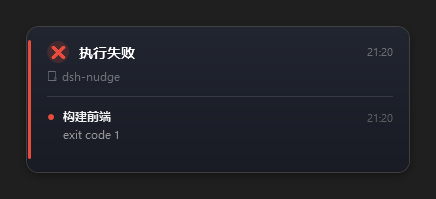
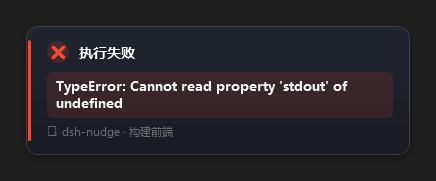
feat: 单条提醒只突出最要紧一行；失败显示精简后的错误摘要

diff --git a/lib/index.js b/lib/index.js
@@ -23,6 +23,52 @@ import { fileURLToPath } from "node:url";
 /** 插件名（cordis 实例标识）。 */
 export const name = "nudge";
 
+/**
+ * 把一段错误压成一行：去掉换行、堆栈尾巴和多余空白，超长截断。
+ * 卡片上只放得下一行重点，原始堆栈留在会话里查。
+ * @param {unknown} value 原始文本
+ * @param {number} [limit] 最多保留的字符数
+ * @returns {string} 压缩后的一行
+ */
+function condenseText(value, limit = 140) {
+	const text = String(value ?? "").replace(/\s+/gu, " ").trim();
+	if (text === "") return "";
+	const head = text.split(/\s+at\s+/u)[0].trim();
+	if (head === "") return "";
+	return head.length > limit ? `${head.slice(0, limit - 1)}…` : head;
+}
+
+/**
+ * 失败和待选择各给一层很淡的同色底，让"这条要处理"自己跳出来；完成不加。
+ * @param {string} kind 类型
+ * @returns {string} 颜色，空串表示不加底
+ */
+function tintOf(kind) {
+	if (kind === "failed") return "#24E74C3C";
+	if (kind === "needs_choice") return "#24F5A623";
+	return "";
+}
+
+/**
+ * 只剩一条提醒时，卡片只有一行主角：
+ * 失败给错误摘要，待选择给要做的事，完成给任务名（有异常细节时优先给细节）。
+ * @param {object} item 提醒条目
+ * @returns {{headline: string, tint: string, context: string}} 主角行、底色、说明行
+ */
+function focusOf(item) {
+	const kind = item.kind;
+	const detail = condenseText(item.detail);
+	const title = condenseText(item.title);
+	let headline = "";
+	if (kind === "failed") headline = detail === "" ? "回合异常结束" : detail;
+	else if (kind === "needs_choice") headline = detail === "" ? "等待你确认" : detail;
+	else headline = detail === "" || detail === "回合已完成" ? title : detail;
+	const meta = [];
+	if (typeof item.project === "string" && item.project !== "") meta.push(item.project);
+	if (title !== "" && title !== headline) meta.push(title);
+	return { headline, tint: tintOf(kind), context: meta.join(" · ") };
+}
+
 /** 默认配置；实际配置来自 cordis.patch.yml，缺失字段落回这里。 */
 export const DEFAULTS = {
 	/** 总开关 */
@@ -239,14 +285,27 @@ export class PopupRunner {
 			...new Set(ordered.map((item) => item.project).filter((value) => typeof value === 'string' && value !== ''))
 		];
 		const multiProject = projects.length > 1;
+		// 单条：只留一行主角 + 一行项目说明；多条：抬头 + 清单。
+		const single = ordered.length === 1 ? ordered[0] : null;
+		const focus = single === null
+			? { headline: "", tint: "", context: projects.length === 1 ? projects[0] : "" }
+			: focusOf(single);
 		const payload = {
 			kind: top,
 			label: KIND_META[top].label,
 			accent: KIND_META[top].accent,
 			glyph: KIND_META[top].glyph,
 			count: ordered.reduce((acc, item) => acc + Math.max(1, item.count), 0),
-			items: ordered.slice(0, limit).map((item) => ({ ...item, rowProject: multiProject ? item.project ?? '' : '' })),
-			context: projects.length === 1 ? projects[0] : '',
+			items: single === null
+				? ordered.slice(0, limit).map((item) => ({
+						...item,
+						detail: condenseText(item.detail),
+						rowProject: multiProject ? item.project ?? '' : ''
+					}))
+				: [],
+			headline: focus.headline,
+			headlineTint: focus.tint,
+			context: focus.context,
 			overflow,
 			// 卡片上的说明文字由这里给出：popup.ps1 保持纯 ASCII 脚本。
 			more: overflow > 0 ? `还有 ${overflow} 条未展开` : "",

diff --git a/VERIFY.md b/VERIFY.md
@@ -41,7 +41,7 @@ ALL PASS (23 checks)
 & $node .\scripts\selftest.mjs   # 已经包含这一步，产物在 screenshots\*.png
 ```
 
-期望：`completed.png` 436×199、`needs_choice.png` 436×237、`failed.png` 436×199（412 = 卡片 384 宽 + 两侧 14px 阴影留白，再各加 12px 底色留白），均 >4KB。
+期望：`completed.png` 436×150、`needs_choice.png` 436×237、`failed.png` 436×181（412 = 卡片 384 宽 + 两侧 14px 阴影留白，再各加 12px 底色留白），均 >4KB。
 
 ## 3. 卡片图内容自证（纯像素，不需要屏幕）
 
@@ -69,9 +69,9 @@ foreach ($f in 'completed','needs_choice','failed') {
 期望（实测）：
 
 ```
-completed:    436x199 distinct=157 dark=21378 accent=126 text=109
+completed:    436x150 distinct=133 dark=16077 accent=70 text=135
 needs_choice: 436x237 distinct=229 dark=25107 accent=183 text=248
-failed:       436x199 distinct=159 dark=21362 accent=158 text=125
+failed:       436x181 distinct=147 dark=19057 accent=132 text=401
 ```
 
 判定标准：
